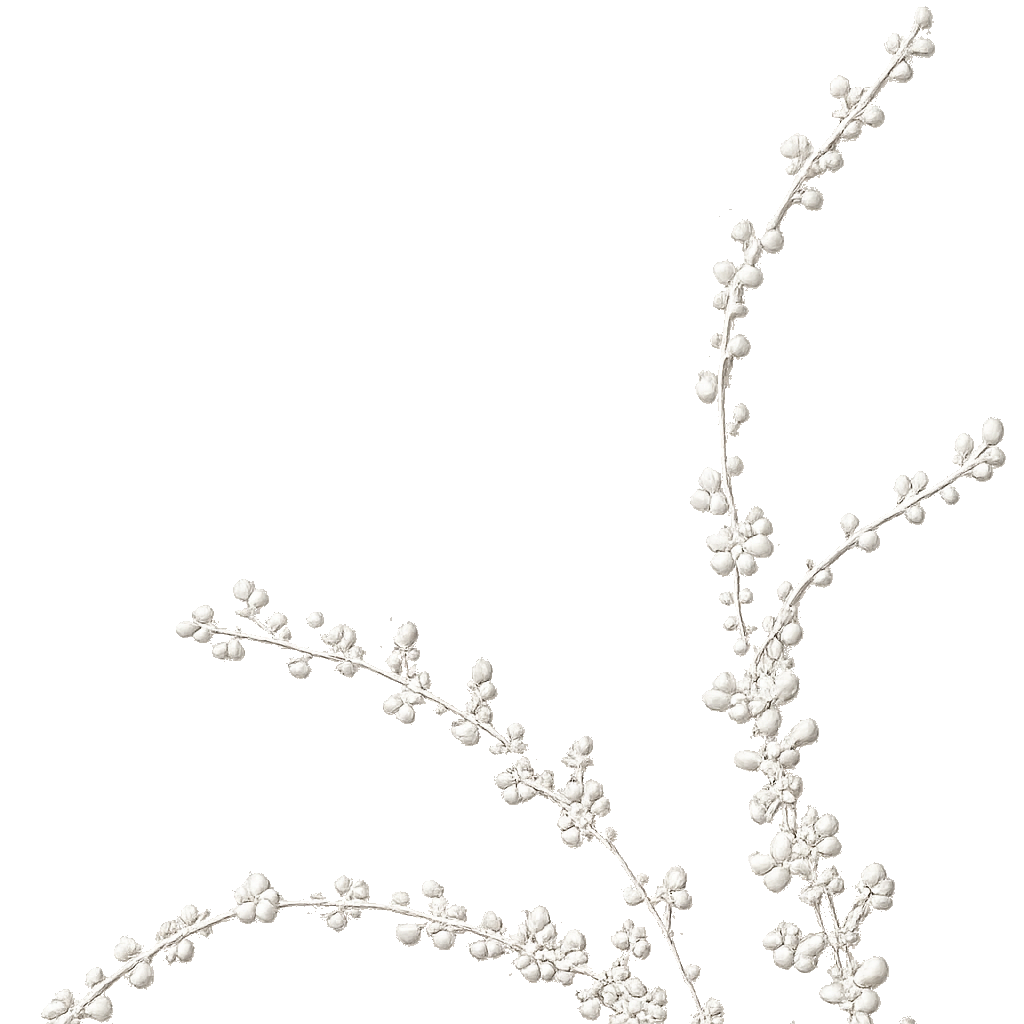
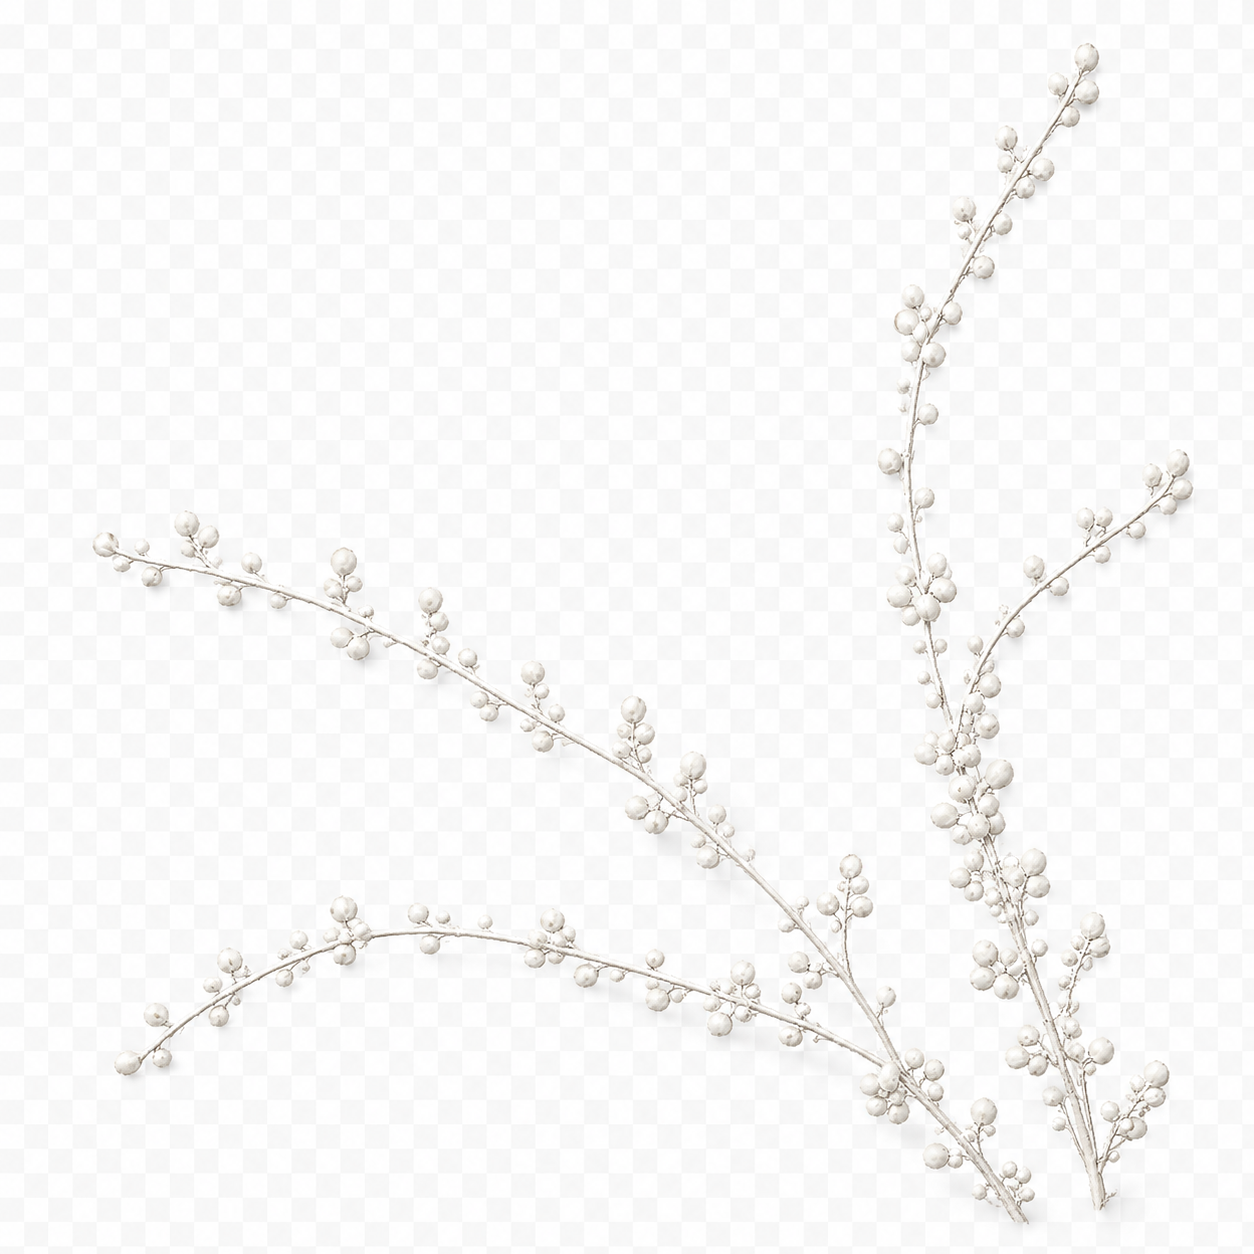
fix: 메인 이미지 재업로드 적용

Changed region(s): [[0.0312, 0.0, 1.0, 1.0], [0.5938, 0.6875, 0.625, 0.7188]]

diff --git a/src/presentation/components/sections/HeroSection.tsx b/src/presentation/components/sections/HeroSection.tsx
@@ -18,13 +18,13 @@ export function HeroSection({ hero }: HeroSectionProps) {
       className="relative overflow-hidden bg-ivory"
       aria-label="설유화 소개"
     >
-      {/* 메인 이미지 — main-2 180도 회전 */}
+      {/* 메인 이미지 */}
       <div
         aria-hidden
         className="pointer-events-none absolute inset-y-0 right-0 z-0 w-[70vw] lg:w-[70%]"
       >
         <Image
-          src="/main-2-rotated.png"
+          src="/main.png"
           alt=""
           fill
           sizes="70vw"